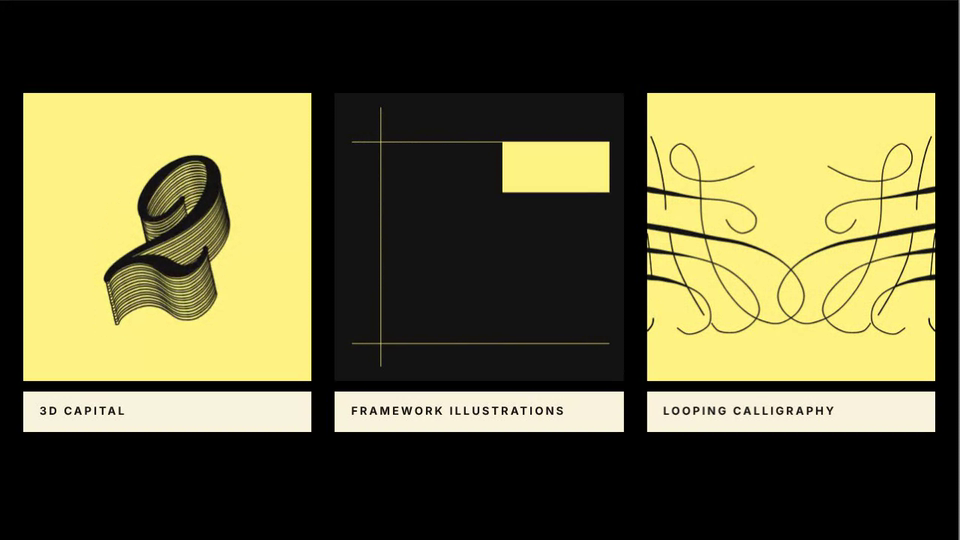
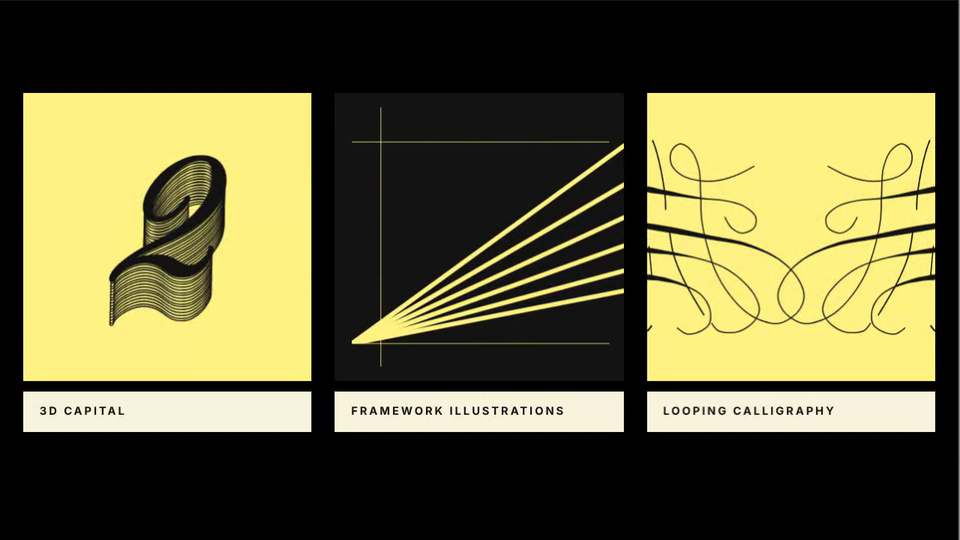
Thread Brand Visuals: framework gets a third scene, the tilt from the guidelines (#375)
Claude-Session: https://claude.ai/code/session_01AHeBdwuVQfGxyT5fqm7GP3

Changed region(s): [[0.3438, 0.237, 0.6562, 0.6519], [0.0938, 0.2667, 0.25, 0.6222]]

diff --git a/thread-brand-visuals/index.html b/thread-brand-visuals/index.html
@@ -567,8 +567,8 @@ function drawNumbers(ctx, W, H, t) {
   drawNumber3D(ctx, DIGITS[i], W / 2, H / 2 + H * 0.02, H * 0.6 * (0.6 + 0.4 * grow), ang, 0.25 + 0.75 * grow);
   ctx.restore();
 }
-function drawFramework(ctx, W, H, t) {
-  /* hairline frame and flat blocks on ink: the rail and the top and bottom lines draw on, the panel wipes in, re-cuts into a block, an outline and a cream block, then everything draws off */
+function drawFrameworkAB(ctx, W, H, t) {
+  /* scenes 1 and 2: hairline frame and flat blocks on ink: the rail and the top and bottom lines draw on, the panel wipes in, re-cuts into a block, an outline and a cream block, then everything draws off */
   ctx.fillStyle = DARK; ctx.fillRect(0, 0, W, H);
   const u = (t % PERIOD) / PERIOD, seg = (a, b) => ease((u - a) / (b - a)), off = ease((u - 0.9) / 0.1), lw = Math.max(1.5, W * 0.0022);
   const L = W * 0.06, R = W * 0.95, T = H * 0.17, B = H * 0.87, rail = W * 0.16, cream = '#faf4de';
@@ -592,6 +592,24 @@ function drawFramework(ctx, W, H, t) {
   }
   ctx.restore();
 }
+/* scene 3, the tilt from the guidelines' motion section: six thick lines fan out of the bottom line, each swings up about its foot and settles back, one after another */
+function drawFrameworkTilt(ctx, W, H, t) {
+  ctx.fillStyle = DARK; ctx.fillRect(0, 0, W, H);
+  const u = (t % PERIOD) / PERIOD, seg = (a, b) => ease((u - a) / (b - a)), fade = 1 - ease((u - 0.9) / 0.1), lw = Math.max(1.5, W * 0.0022);
+  const L = W * 0.06, R = W * 0.95, T = H * 0.17, B = H * 0.87, rail = W * 0.16, N = 6, thick = W * 0.016;
+  ctx.save(); ctx.globalAlpha = fade; ctx.strokeStyle = YEL; ctx.lineWidth = lw; ctx.lineCap = 'butt';
+  const line = (x1, y1, x2, y2, p) => { if (p <= 0) return; ctx.beginPath(); ctx.moveTo(x1, y1); ctx.lineTo(x1 + (x2 - x1) * p, y1 + (y2 - y1) * p); ctx.stroke(); };
+  line(rail, H * 0.05, rail, H * 0.95, seg(0.02, 0.2)); line(L, T, R, T, seg(0.08, 0.28)); line(L, B, R, B, seg(0.14, 0.34));
+  ctx.save(); ctx.beginPath(); ctx.rect(L, 0, W - L, B); ctx.clip(); ctx.lineWidth = thick;
+  const on = seg(0.3, 0.42);
+  for (let i = 0; i < N; i++) {
+    const base = (3 + 31 * Math.pow(i / (N - 1), 1.15)) * Math.PI / 180, ang = base + 0.15 * (1 - Math.cos(TAU * (t - i * 0.4) / PERIOD)) / 2;
+    const dx = Math.cos(ang), dy = -Math.sin(ang), len = (W - L) / dx + 60 * W / 2000, e = on * len;
+    ctx.beginPath(); ctx.moveTo(L + dx * -thick * 3, B + dy * -thick * 3); ctx.lineTo(L + dx * e, B + dy * e); ctx.stroke();
+  }
+  ctx.restore(); ctx.restore();
+}
+function drawFramework(ctx, W, H, t) { const tt = t % (PERIOD * 2); tt < PERIOD ? drawFrameworkAB(ctx, W, H, tt) : drawFrameworkTilt(ctx, W, H, tt - PERIOD); }
 function drawCalligraphy(ctx, W, H, t, still) {
   ctx.fillStyle = YEL; ctx.fillRect(0, 0, W, H);
   flourish(ctx, 0, 0, W, H, { color: DARK, t, still, fw: 1.2 * (W / 2000 < 0.7 ? 1 : 1) * 1.1 });
@@ -603,7 +621,7 @@ function surface(cv, W, H, draw) {
   s.fit = () => { const r = cv.getBoundingClientRect(); if (!r.width) return; const dpr = Math.min(devicePixelRatio || 1, 2), w = Math.round(r.width * dpr); if (cv.width !== w) { cv.width = w; cv.height = Math.round(w * H / W); } s.k = cv.width / W; };
   s.fit(); surfaces.push(s); return s;
 }
-let clock = 0, last = performance.now();
+let clock = HP.has('from') ? +HP.get('from') : 0, last = performance.now();
 function loop(now) {
   const dt = Math.max(0, Math.min(0.1, (now - last) / 1000)); last = now; if (!reduce) clock += dt;
   const t = frozen != null ? frozen : reduce ? STILL_T : clock;

diff --git a/tools/record-clips.js b/tools/record-clips.js
@@ -38,7 +38,7 @@ const APPS = {
     await sleep(5600);
   } },
   // the three Thread brand visuals side by side, all moving on their own: the 3D characters turning 2 0 2 6 A B C, the frame lines drawing on and re-cutting, the calligraphy writing on and off (one 8 s loop, played at 1.33x)
-  'thread-brand-visuals': { vp: [1280, 769], crop: [0, 49, 1280, 720], ready: 1500, q: 55, run: async (p) => { await sleep(5600); } },
+  'thread-brand-visuals': { vp: [1280, 769], crop: [0, 49, 1280, 720], hash: '#from=8.4', ready: 1500, q: 55, run: async (p) => { await sleep(5600); } },
   // the landing page: hero with the live countdown and the hairline grid lighting up, then a scroll through the keynotes, tracks and community cards and back up
   'thread-conference-landing': { vp: [1280, 769], crop: [0, 49, 1280, 720], ready: 1500, q: 55, run: async (p) => {
     const t0 = Date.now(), to = (sel, off) => p.evaluate(([s, o]) => window.scrollTo({ top: document.querySelector(s).getBoundingClientRect().top + scrollY - 60 + o, behavior: 'smooth' }), [sel, off]);
